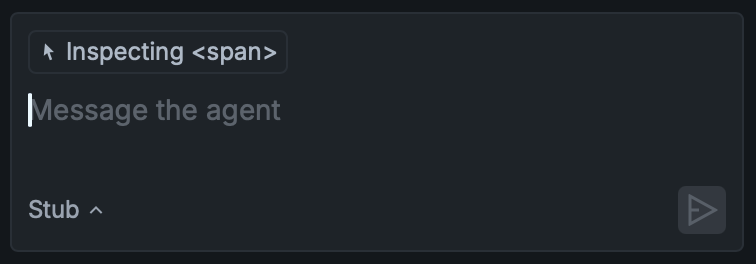
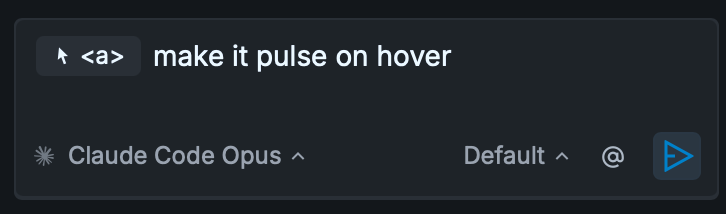
Document depth-based inspector

diff --git a/pages/features/inspector.md b/pages/features/inspector.md
@@ -8,11 +8,19 @@ You can find the inspector on the top right of your browser window. Once enabled
 
 ![Inspector example](assets/inspector.png)
 
-Once you click an element, the chat box will show an element is currently inspected:
+Once you click an element, it will be added as part of your prompt:
 
-<img src="assets/inspecting.png" alt="Update chat with inspected element" width="400px">
+<img src="assets/inspecting.png" alt="Prompt with inspected element" width="400px">
 
-If you send a message, Tidewave will include precise information about that element, such as its location on the page, part of its contents, as well as the server-side templates and client components involved in rendering the particular element.
+You can click multiple elements and ask multiple elements to be changed at once. Once you send the prompt, Tidewave will include precise information about that element, such as its location on the page, part of its contents, as well as the server-side templates and client components involved in rendering the particular element.
+
+## Depth-based inspector
+
+Sometimes you may want to select an element that is behind another element. To do so, simply right-click any position and Tidewave will open up a contextual menu with all DOM elements at the chosen point! Then you can either use the keyboard or the mouse to select the desired element:
+
+<img src="assets/depth-inspector.png" alt="Depth-based inspector" width="700px">
+
+In the screenshot above, after right-clicking the paragraph, a contextual menu appeared on the bottom right, which allows us to navigate all elements at that position.
 
 ## Framework overlay
 
@@ -25,6 +33,8 @@ Clicking the element while the `Ctrl` key (or `Cmd` key on macOS) are pressed wi
 ## Shortcuts
 
 The inspector supports the following shortcuts:
+
+* `Right-click`: enables a menu with all elements at the given position
 
 * `Ctrl+Click` or `Cmd+Click` (macOS): when hovering an element, you may Ctrl+Click it, and Tidewave will open up the element in your editor using your configured [editor integration](editors.md)
 
